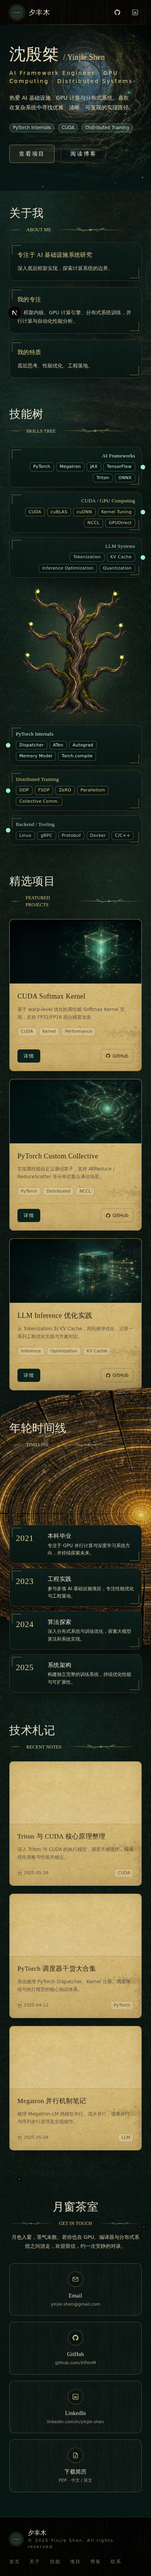
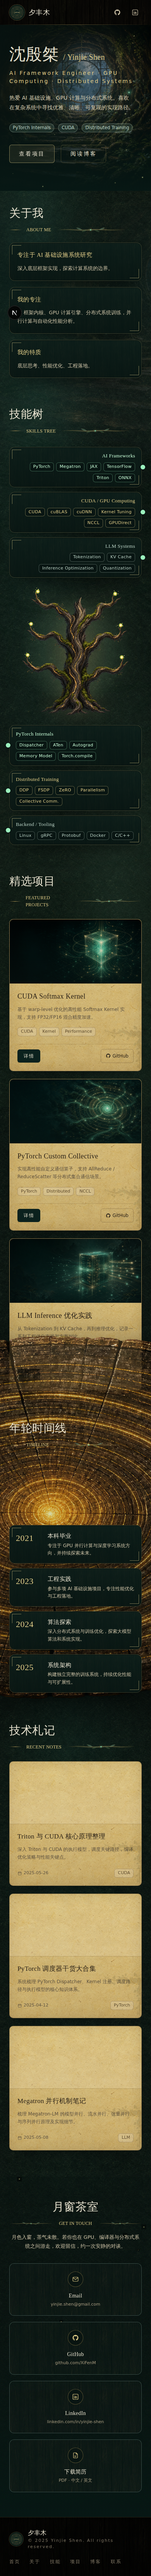
fix(web): reposition timeline ring center

Changed region(s): [[0.0, 0.4988, 1.0, 0.6547]]

diff --git a/web/src/components/Timeline.tsx b/web/src/components/Timeline.tsx
@@ -41,7 +41,7 @@ export function Timeline() {
 
 function YearRingField({ items }: { items: TimelineItem[] }) {
   return (
-    <div className="pointer-events-none absolute -left-[64vw] top-[-180px] z-0 h-[700px] w-[1180px] max-w-none md:-left-[430px] md:top-[-210px] md:h-[840px] md:w-[1420px] lg:-left-[360px] lg:w-[1520px]">
+    <div className="pointer-events-none absolute left-[calc(-64vw-470px)] top-[-320px] z-0 h-[980px] w-[1650px] max-w-none md:left-[-760px] md:top-[-310px] md:h-[1040px] md:w-[1750px] lg:left-[-940px] lg:top-[-370px] lg:h-[1160px] lg:w-[2100px]">
       <div
         aria-hidden
         className="absolute inset-y-[10%] left-[18%] right-[4%] rounded-[999px] bg-[radial-gradient(ellipse,rgba(224,204,136,.18),rgba(156,240,189,.07)_48%,transparent_72%)] blur-xl"
